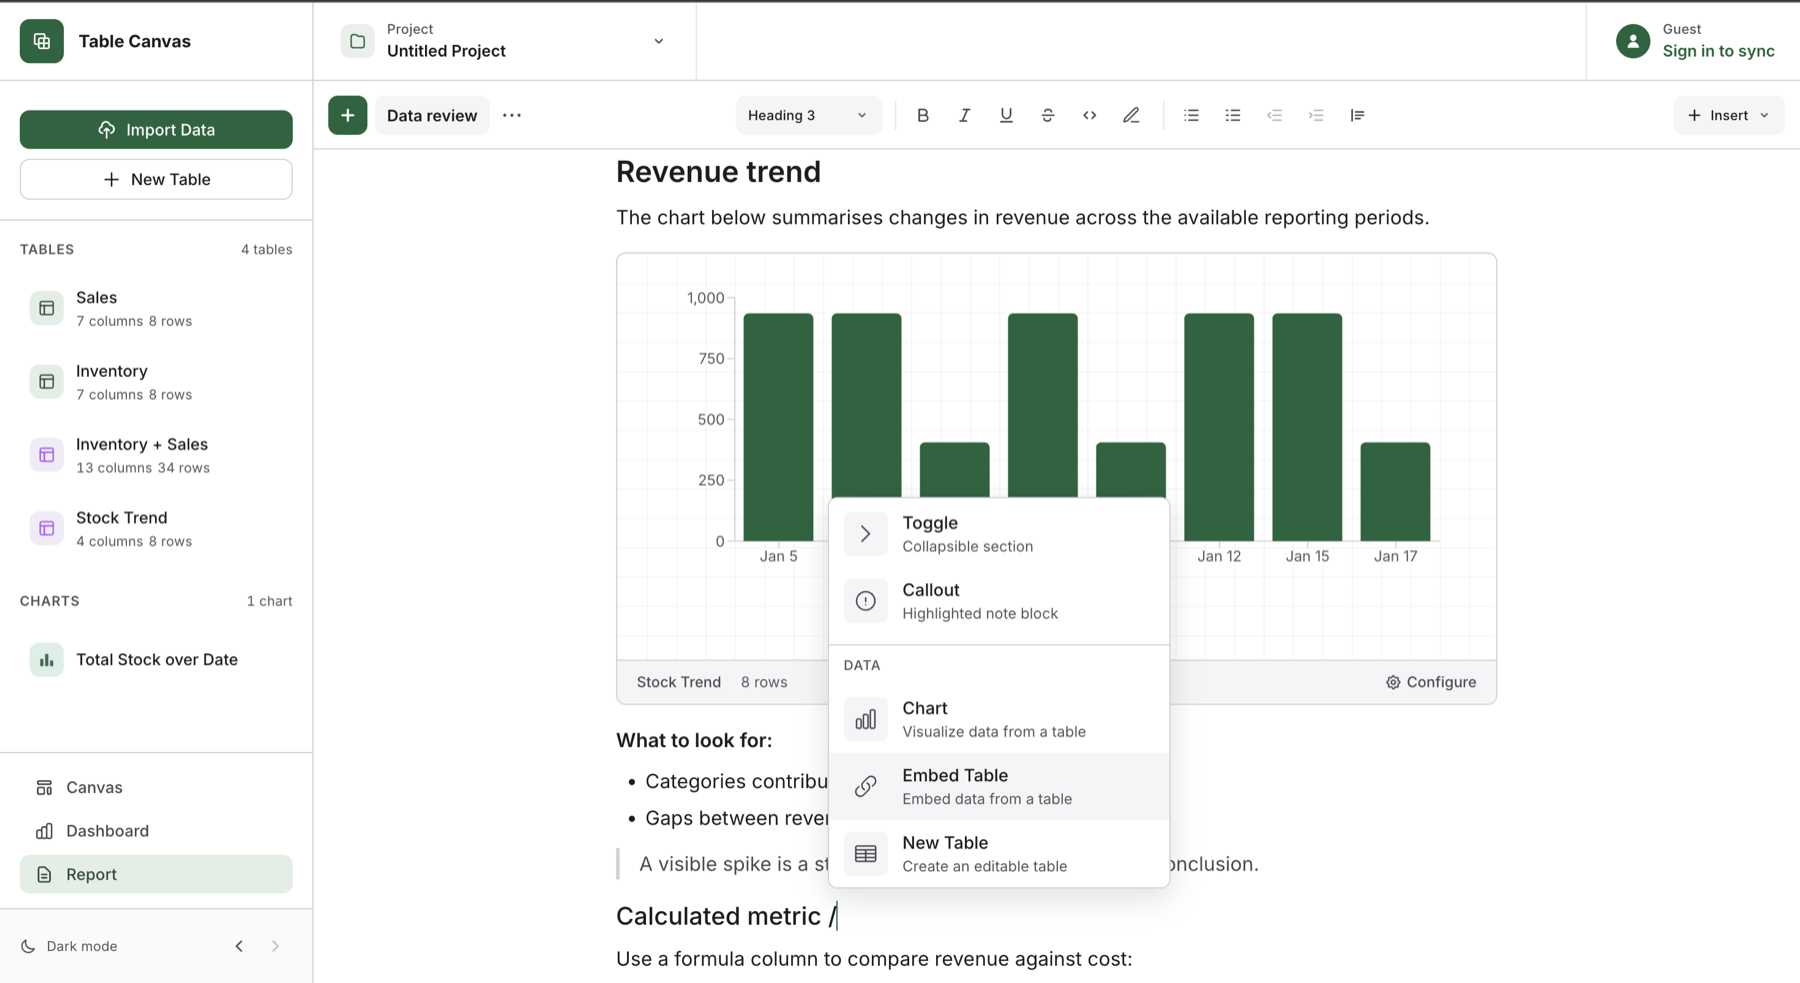
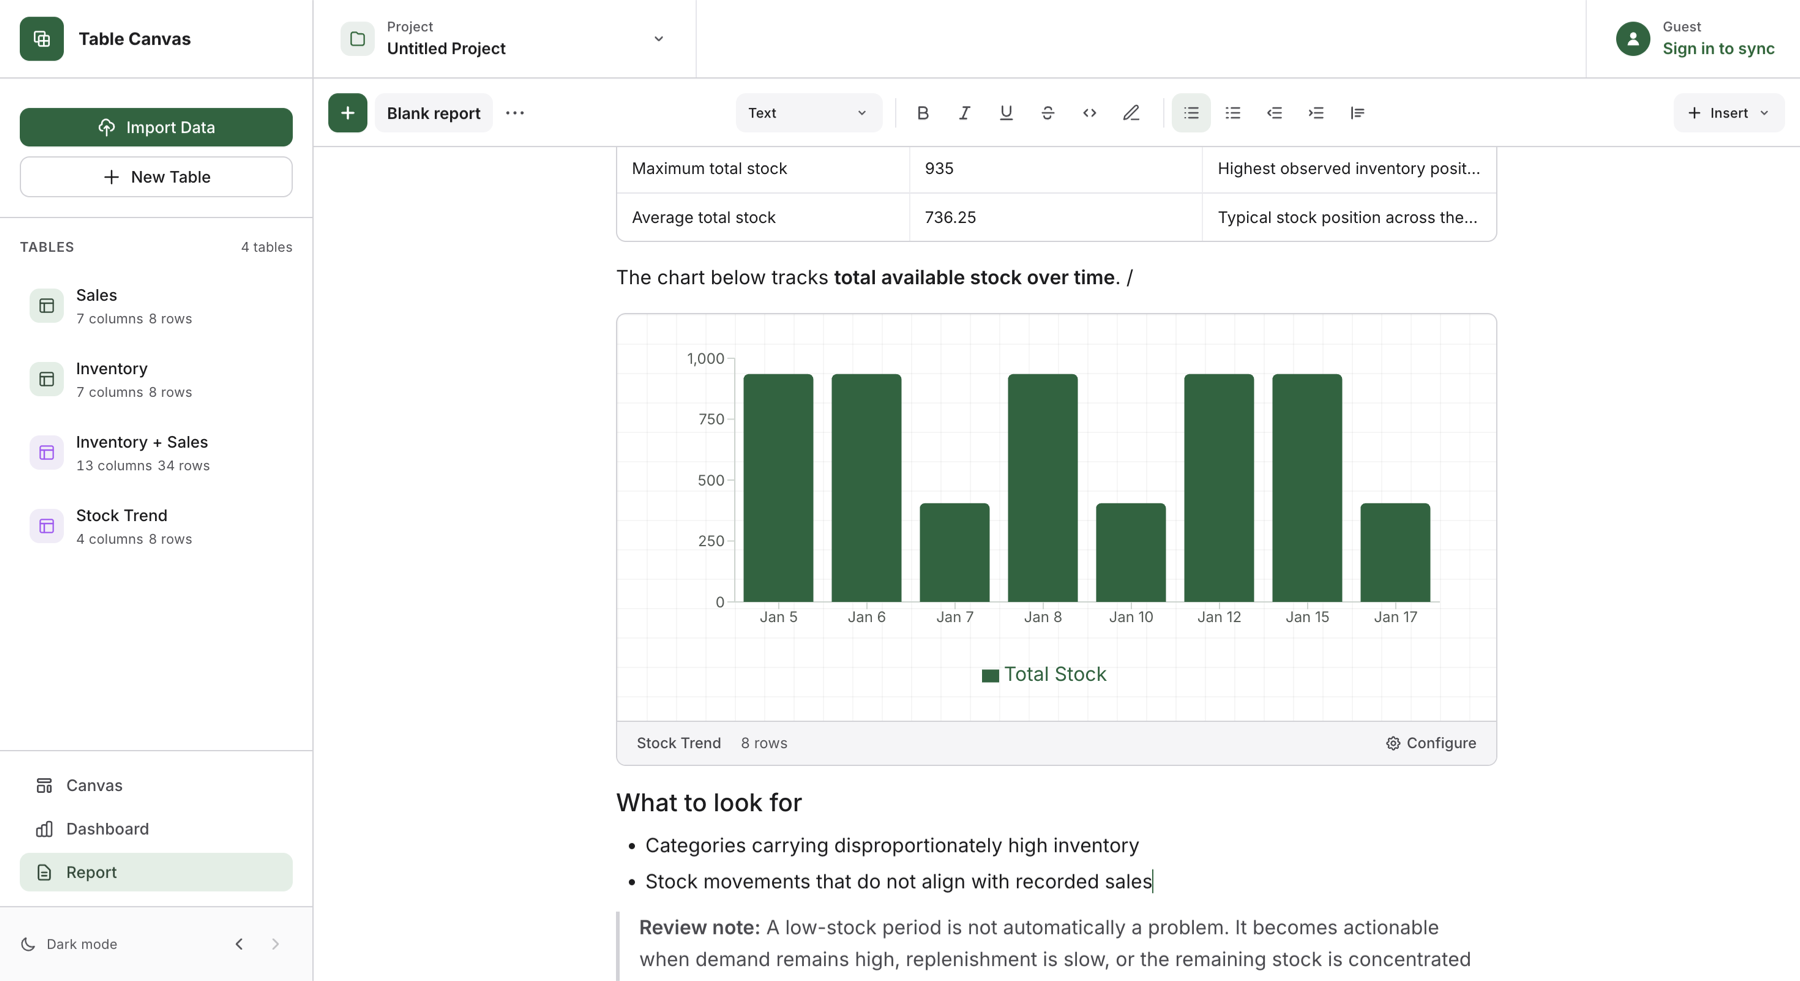
docs: expand screenshot tour with formula and report examples

diff --git a/docs/screenshots.md b/docs/screenshots.md
@@ -22,9 +22,17 @@ Join or append two tables, select the matching columns and output fields, and re
 
 ## Table view
 
+### Editable grid
+
 ![Editable source table with typed columns and spreadsheet controls](screenshots/table-view.png)
 
 Edit typed source data in a virtualized spreadsheet with dedicated row, column, filter, chart, and suggestion controls.
+
+### Formula columns
+
+![Formula-column editor calculating a stock buffer ratio](screenshots/formula-column.png)
+
+Build typed calculated columns from existing fields and spreadsheet-style functions, with the result type validated before the column is added.
 
 ## Suggestions panel
 
@@ -62,9 +70,17 @@ Table-level health checks and suggested analyses turn the dashboard into an acti
 
 ## Report builder
 
-![Report editor with formatted analysis, a live chart and the block insertion menu](screenshots/report-builder.png)
+### Live analysis
 
-Compose formatted analysis around live project data, then insert charts, linked tables, editable tables, callouts, and collapsible sections.
+![Report editor combining inventory analysis with a live stock chart](screenshots/report-builder.png)
+
+Combine summary metrics, narrative context, live project charts, review notes, and supporting analysis in one document.
+
+### Composable blocks
+
+![Report block menu offering charts, linked tables, editable tables, callouts and toggles](screenshots/report-blocks.png)
+
+The insertion menu adds project charts, linked tables, editable tables, callouts, and collapsible sections wherever the analysis needs them.
 
 ## Project portability
 
